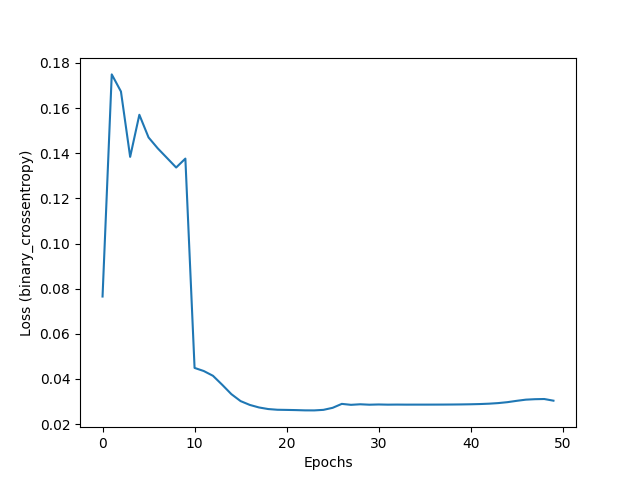
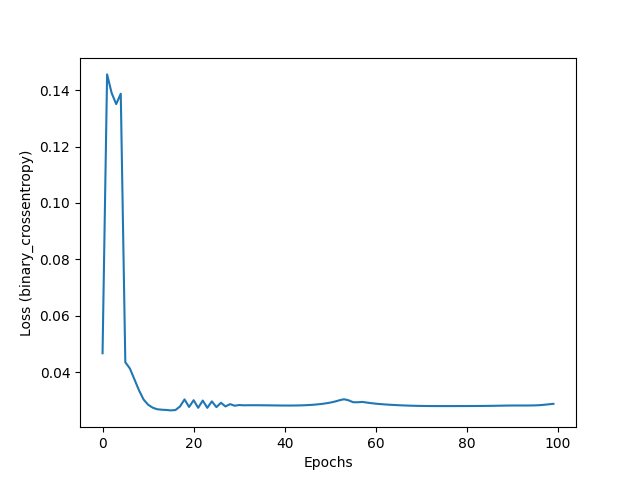
Add softmax

diff --git a/keras/04_softmax_regression.py b/keras/04_softmax_regression.py
@@ -1,0 +1,90 @@
+#!/usr/bin/env python3
+# -*- coding:utf-8 -*-
+
+import numpy as np
+import pandas as pd
+
+
+from tensorflow.keras.models import Sequential
+from tensorflow.keras.layers import Dense
+from tensorflow.keras import optimizers
+from tensorflow.keras.utils import to_categorical
+
+from sklearn.preprocessing import LabelEncoder
+import matplotlib.pyplot as plt
+
+def test_onehot_encode():
+    x = np.array(['dog', 'cat', 'bird', 'fish'])
+
+    # label encoder :  text를 숫자로 인코딩
+    encoder = LabelEncoder()
+    encoder.fit(x)
+    y = encoder.transform(x)
+    print ('label')
+    print (y)
+
+    # one hot encoding - 독립된 1,0 으로 encoding
+    print ('to_categorical()')
+    Y = to_categorical(y)
+    print (Y)
+
+    # label decoder : 숫자를 텍스트로 인코딩
+    print ('decoding():')
+    print (encoder.inverse_transform([3,2,1,0]))
+
+def soft_max():
+    df = pd.read_csv('iris.csv')
+    print (df)
+
+    X = df.values[0:, 1:5].astype(float)
+    Y = df.values[0:, 5]
+    #print (X)
+    #print (Y)
+
+    # one-shot encoding
+    encoder = LabelEncoder()
+    encoder.fit(Y)
+    Y_encoded = to_categorical(encoder.transform(Y))
+    # print (Y_encoded)
+
+    # model: linear regression input dense with dim = 3
+    nn = True
+    model = Sequential()
+    if nn:
+        model.add(Dense(16, input_dim = 4, activation='relu'))
+        model.add(Dense(3, activation='softmax'))
+    else:
+        model.add(Dense(3, input_dim = 4, activation='softmax'))
+  
+    # model compile: 
+    model.compile(loss='categorical_crossentropy', optimizer='adam', metrics=['accuracy'])
+
+    # model fit
+    history = model.fit(X, Y_encoded, epochs=200, batch_size=1, shuffle=False)
+
+    # prediction
+    predict = model.predict([[4.7, 3.2, 1.3, .2], [6.1, 2.9, 4.7, 1.4], [7.2,3.6,6.1,2.5]])
+    print ('Predict:\n',  predict)
+    
+    # evalue
+    loss_and_metric = model.evaluate(X, Y_encoded, batch_size=1)
+    print ('Evaluate:\n', loss_and_metric)
+
+    # 학습 정확성 값과 검증 정확성 값을 플롯팅 합니다. 
+    # #print(history.history)
+    plt.plot(history.history['loss'])
+    plt.plot(history.history['accuracy'])
+    plt.ylabel('Loss (categorical_crossentropy) & Accuracy')
+    plt.legend(['loss', 'accuracy'])
+    plt.xlabel('Epochs')
+    plt.savefig('04_softmax_loss.png')
+    #plt.show()
+
+    # print model summary
+    print ('Model summary:\n')
+    model.summary()
+    
+
+if __name__ == '__main__':
+    # test_onehot_encode()
+    soft_max()

diff --git a/keras/03_logistic_regress_sample_02_wine_estimation.py b/keras/03_logistic_regress_sample_02_wine_estimation.py
@@ -15,6 +15,9 @@ df = pd.read_csv('./wine.csv')
 x_data = df.values[:, 0:12]
 y_data = df.values[:, 12]
 
+print ('Wine quality samples:')
+print (df)
+
 # model: linear regression input dense with dim =1
 model = Sequential()
 model.add(Dense(1, input_dim = 12, activation='sigmoid'))
@@ -24,7 +27,7 @@ sgd = optimizers.SGD(learning_rate = 0.01)
 model.compile(loss='binary_crossentropy', optimizer=sgd)
 
 # model fit
-history = model.fit(x_data, y_data, epochs=50, batch_size=5, shuffle=False)
+history = model.fit(x_data, y_data, epochs=100, batch_size=5, shuffle=False)
 
 loss_and_metric = model.evaluate(x_data, y_data)
 print ('Evaluate:\n', loss_and_metric)
@@ -45,7 +48,7 @@ plt.plot(history.history['loss'])
 plt.ylabel('Loss (binary_crossentropy)')
 plt.xlabel('Epochs')
 plt.savefig('03_train_logistic_reg_wine.png')
-plt.show()
+#plt.show()
 plt.clf()
 
 # plt.plot (x_data, model.predict(x_data), 'b', x_data, y_data, 'k.')
